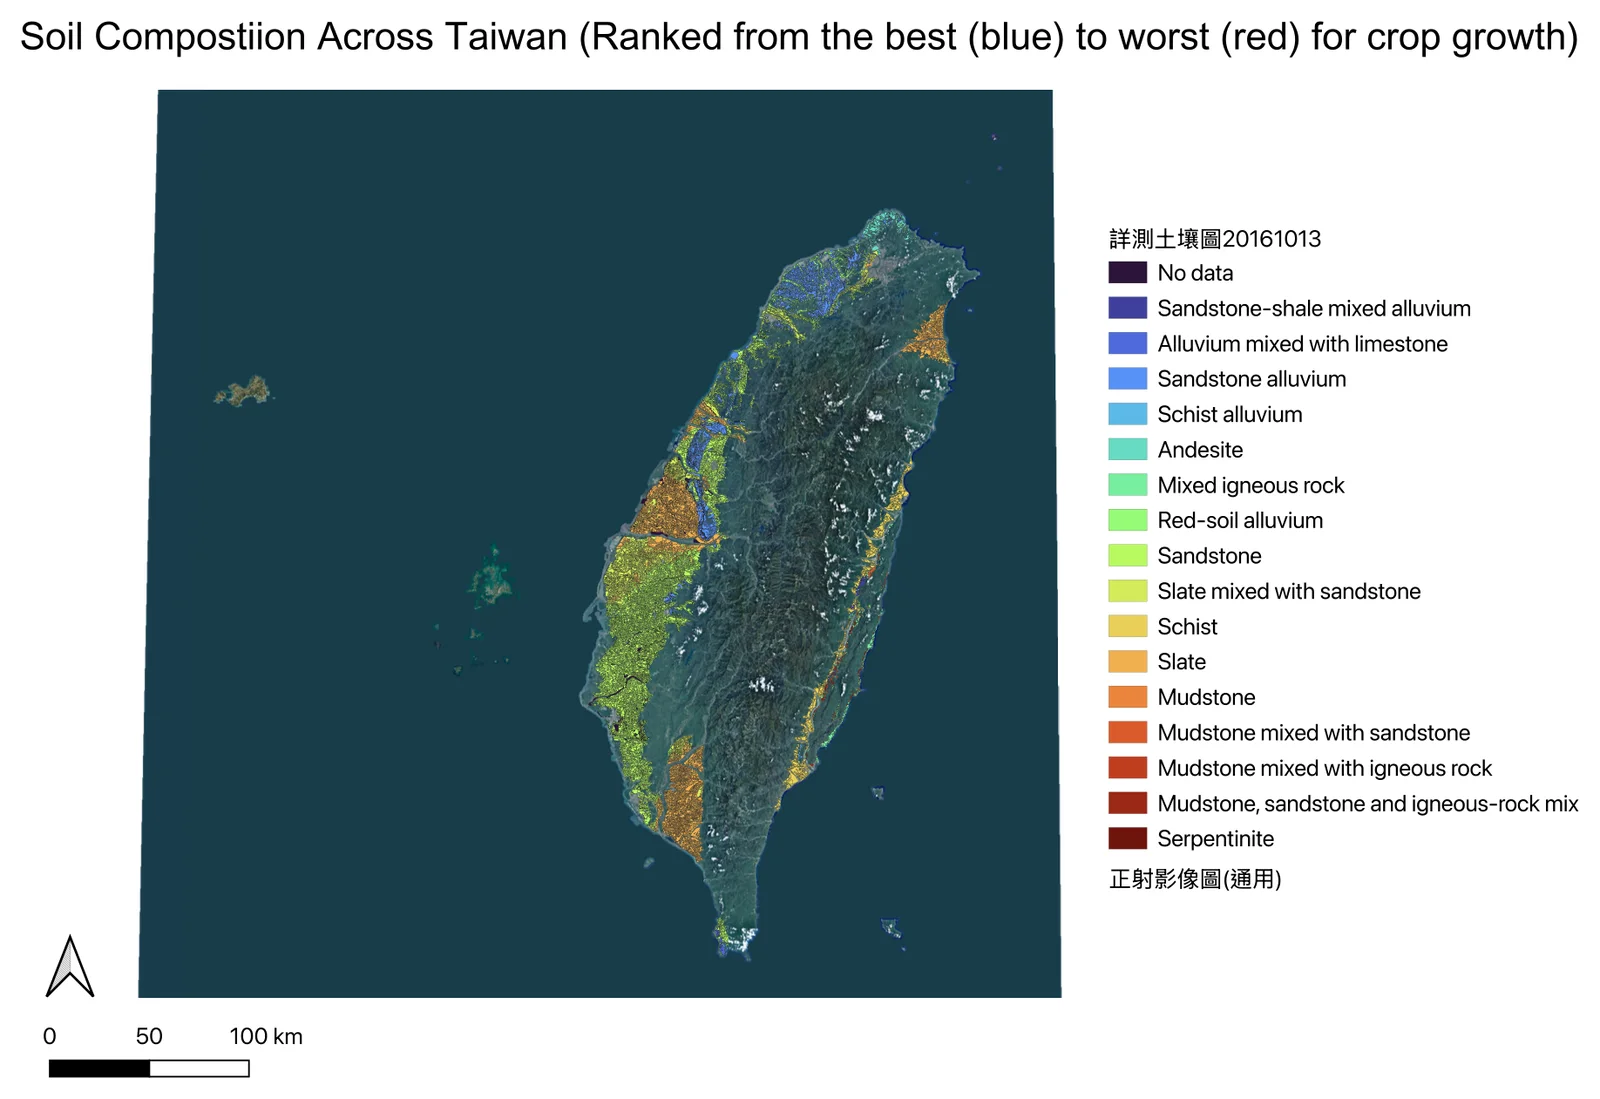
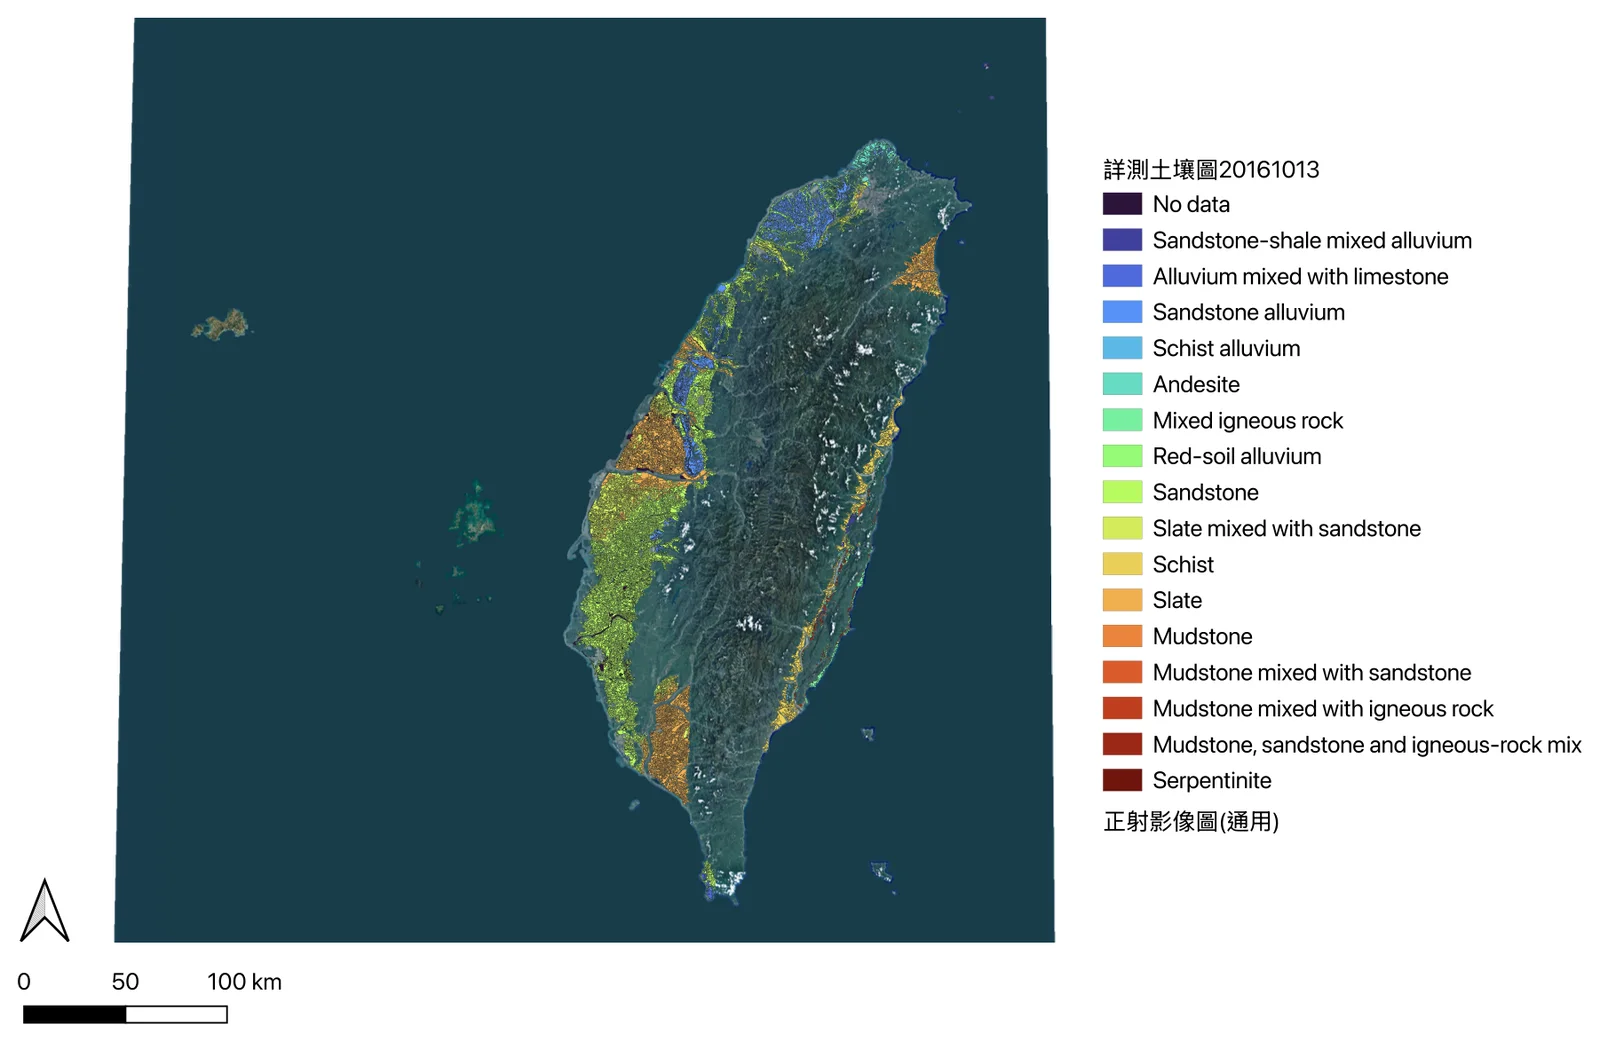
Pair the soil map with the farm it came from
The first visual was a soil map on its own, which is the wrong way round:
Ms. Chen Hui-wen (陳惠雯) makes the claim in the paragraph above it —
eleven of the world's twelve soil types on one island — and the map was
sitting there proving it to nobody in particular.

So it is now two frames. Left, the whole island's soil, ranked blue to
red. Right, her farm on 21 July, three people crouched over one patch of
it. The point of the section is that Taiwanese agricultural knowledge is
calibrated to a slope rather than a province, and the pair says that
faster than the paragraph does.

The row moved below her quote so a reader meets her before her
photograph, and it grows into the gutter on wide screens — a national
soil legend at half of 68ch is decoration, and the lightbox is the
fallback for the rest. Her full name now appears on first mention and in
the reference, which is the credit an interviewee is owed.

The QGIS title band is cropped off the map. It read "Soil Compostiion",
and everything it said is in the figcaption anyway.

diff --git a/geospatial-analysis/index.html b/geospatial-analysis/index.html
@@ -32,6 +32,12 @@
     }
     .fig__load button:hover { filter: brightness(1.08); }
     @media (max-width: 700px) { .fig__load { height: 26rem; } }
+    /* Same bargain .fig--wide strikes in page.css, for a row of two rather than
+       one: a national map at half of 68ch is unreadable, so the pair grows into
+       the gutter once a gutter exists. */
+    @media (min-width: 1240px) {
+      .figs--wide { width: min(54rem, calc(100vw - 24rem)); max-width: none; }
+    }
   </style>
 </head>
 <body>
@@ -111,24 +117,32 @@
           almost anywhere on Earth.
         </p>
 
-        <figure class="fig">
-          <img src="../assets/img/geospatial/soil-composition.webp"
-               alt="Satellite map of Taiwan with farmland coloured by parent material, ranked blue to red for crop suitability: blue and green alluvial soils fill the western plain and the Yilan and Taitung valleys, while orange and red slate, schist and mudstone follow the western foothills and the south-west."
-               width="1600" height="1099" loading="lazy" />
-          <figcaption><b>Figure 1.</b> Soil parent material across Taiwan, from the national detailed soil survey, ranked blue (best for crop growth) to red (worst). The blue and green alluvium is almost entirely confined to the western plain and the two eastern rift valleys; everything else is slate, schist, mudstone and igneous mixes. The pattern repeats at a scale of kilometres, not provinces.</figcaption>
-        </figure>
-
         <p>
-          That compression is why agriculture here was never one tradition. Ms. Chen, who
-          runs a natural farm in north-west Taiwan and has done for twenty-five years, put
-          the point more precisely than any dataset could: <q>Even the world's top soil
-          microbiology PhD doesn't fully understand soil&hellip; Earth has about 12 soil
-          classification types, and Taiwan alone has 11 of them.</q> Rather than a single
-          broad practice, Taiwanese agricultural expertise evolved into thousands of
-          local, inherited, hyper-specific ones, each tuned to a single slope or valley.
-          <q>No two plots of land are the same,</q> she told us. <q>A plot with a tree next
-          to it and one without are different.</q>
+          That compression is why agriculture here was never one tradition. Ms. Chen
+          Hui-wen (陳惠雯), who runs a natural farm in north-west Taiwan and has done for
+          twenty-five years, put the point more precisely than any dataset could:
+          <q>Even the world's top soil microbiology PhD doesn't fully understand
+          soil&hellip; Earth has about 12 soil classification types, and Taiwan alone has
+          11 of them.</q> Rather than a single broad practice, Taiwanese agricultural
+          expertise evolved into thousands of local, inherited, hyper-specific ones, each
+          tuned to a single slope or valley. <q>No two plots of land are the same,</q> she
+          told us. <q>A plot with a tree next to it and one without are different.</q>
         </p>
+
+        <div class="figs figs--2 figs--wide">
+          <figure class="fig">
+            <img src="../assets/img/geospatial/soil-composition.webp"
+                 alt="Satellite map of Taiwan with farmland coloured by parent material, ranked blue to red for crop suitability: blue and green alluvial soils fill the western plain and the Yilan and Taitung valleys, while orange and red slate, schist and mudstone follow the western foothills and the south-west."
+                 width="1600" height="1042" loading="lazy" />
+            <figcaption><b>Figure 1a.</b> Her claim, mapped. Soil parent material across Taiwan from the national detailed soil survey, ranked blue (best for crop growth) to red (worst). The blue and green alluvium is almost entirely confined to the western plain and the two eastern rift valleys; everything else is slate, schist, mudstone and igneous mixes. The pattern repeats at a scale of kilometres, not provinces. Click to enlarge the legend.</figcaption>
+          </figure>
+          <figure class="fig">
+            <img src="../assets/img/geospatial/chen-farm-soil.webp"
+                 alt="Ms. Chen Hui-wen crouching in a sunlit field beside a harvest basket, talking to two ReLeaf students who are crouched on either side of her, all three looking down at a patch of bare dark soil between them."
+                 width="1200" height="675" loading="lazy" />
+            <figcaption><b>Figure 1b.</b> Her claim, on the ground. Ms. Chen on her farm, 21 July 2026, reading one patch of soil with two of us. Everything to the left of this caption is what the published data can see; everything in this frame is what it cannot &mdash; and hers is the resolution the problem actually happens at.</figcaption>
+          </figure>
+        </div>
         <p>
           This is the first thing the geography does to the problem. Knowledge that is
           calibrated to one valley does not transfer to the next one, so a farmer facing a
@@ -616,7 +630,7 @@
           <li>Taiwan Central Weather Administration. <i>Monthly mean temperature in Taiwan, 1991&ndash;2020</i>. <a href="https://www.cwa.gov.tw/V8/E/C/Statistics/monthlymean.html" target="_blank" rel="noopener">cwa.gov.tw</a>, January 2021. Mapped using QGIS.</li>
           <li>Müller C, Elliott JW, Folberth C, Jägermeyr J, Khabarov N, Seneviratne S, Thiery W, Frieler K. <i>ISIMIP2b simulation data from the agriculture sector</i> (v1.1). ISIMIP Repository, 2024. <a href="https://doi.org/10.48364/ISIMIP.682003.1" target="_blank" rel="noopener">doi:10.48364/ISIMIP.682003.1</a></li>
           <li>Taiwan Ministry of Agriculture. <i>Number of persons engaged in on-farm agricultural and livestock activities in agricultural and livestock households, by sex and age</i>. <a href="https://data.gov.tw/dataset/80661" target="_blank" rel="noopener">data.gov.tw/dataset/80661</a>, last updated 3 September 2024. Mapped using QGIS 3.44 LTR.</li>
-          <li>Interview with Ms. Chen, natural farm operator, north-west Taiwan, 2026. Full record on the <a href="../human-practices/">Integrated Human Practices</a> page.</li>
+          <li>Farm visit and interview with Ms. Chen Hui-wen (陳惠雯), natural farm operator, north-west Taiwan, 21 July 2026. Full record on the <a href="../human-practices/">Integrated Human Practices</a> page.</li>
         </ol>
       </section>
 
